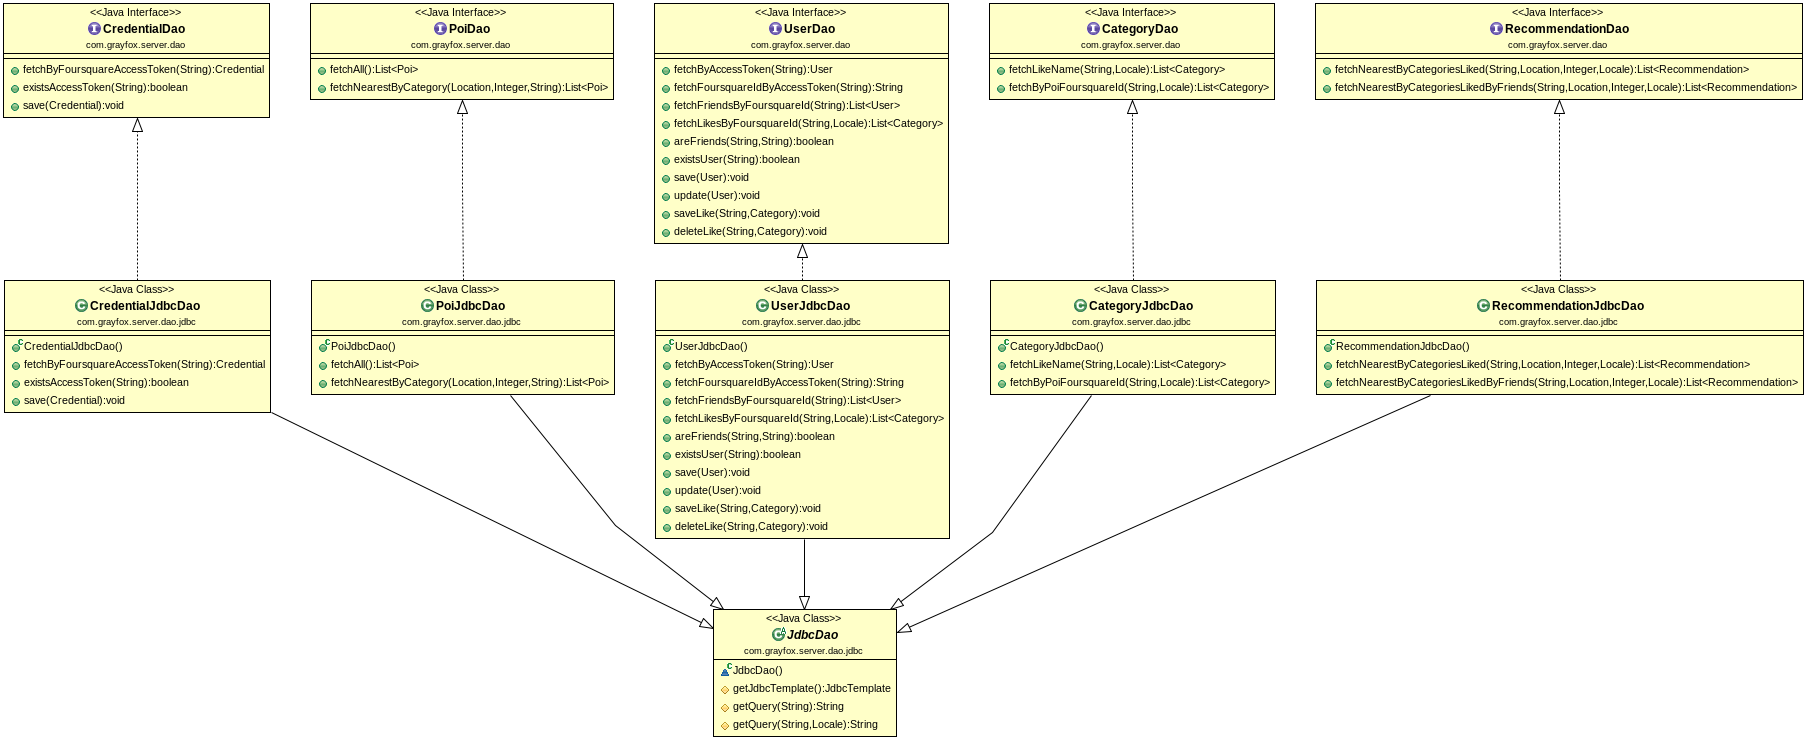
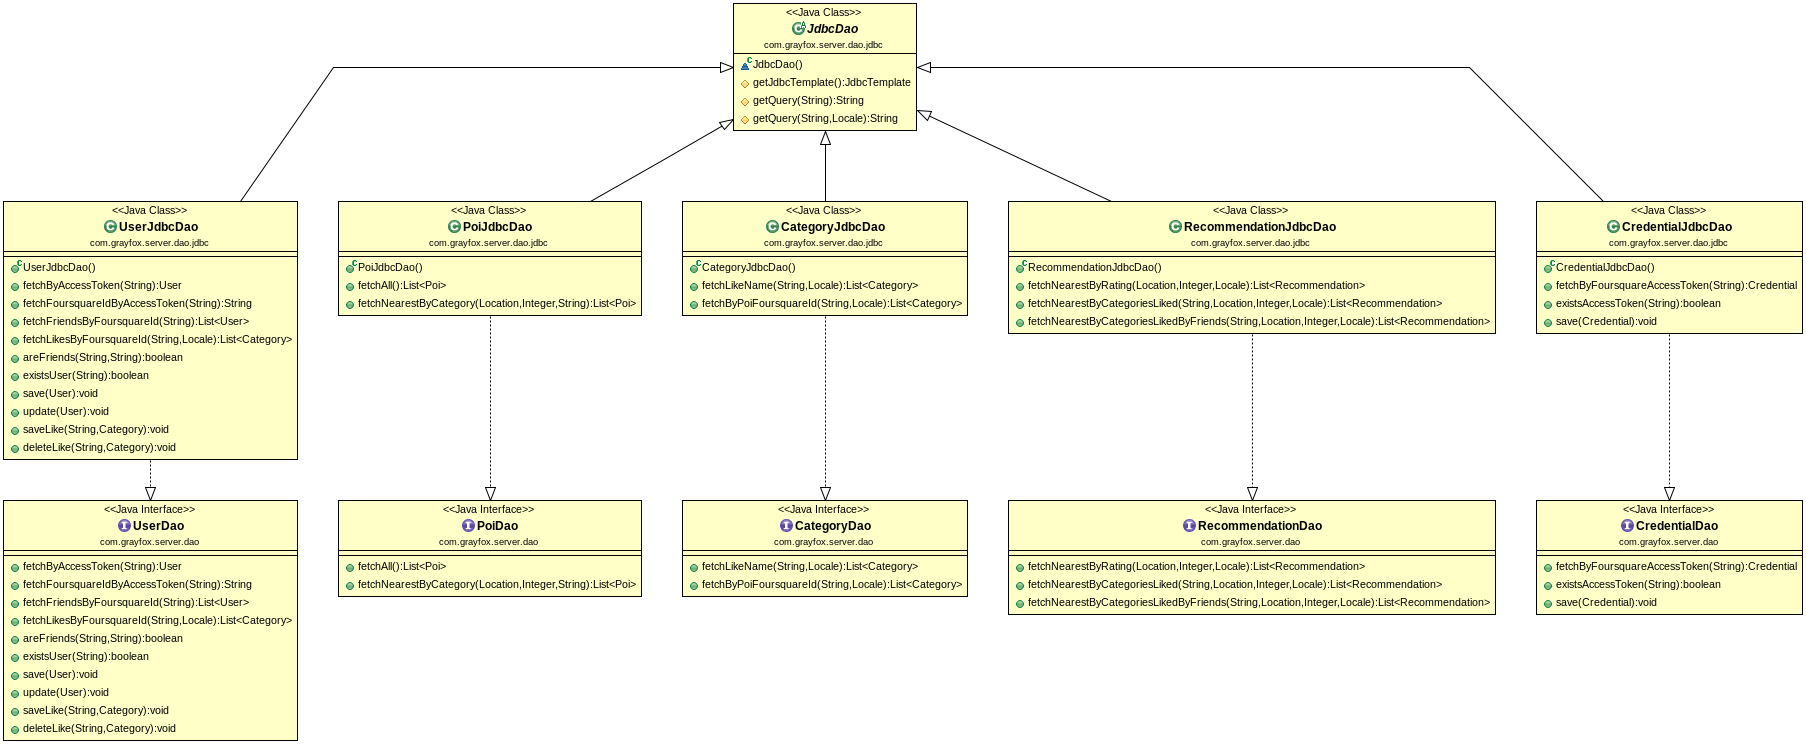
Recommendations are now provided by POI services. Added Globlal recommendation type, recommadations by high ratings. Recommendations are now sorted by distance.

diff --git a/src/main/java/com/grayfox/server/service/PoiService.java b/src/main/java/com/grayfox/server/service/PoiService.java
@@ -1,17 +1,27 @@
 package com.grayfox.server.service;
 
+import java.util.ArrayList;
 import java.util.HashSet;
+import java.util.Iterator;
 import java.util.List;
 import java.util.Locale;
+import java.util.Set;
 
 import javax.inject.Inject;
 
 import com.grayfox.server.dao.CategoryDao;
+import com.grayfox.server.dao.CredentialDao;
 import com.grayfox.server.dao.PoiDao;
+import com.grayfox.server.dao.RecommendationDao;
 import com.grayfox.server.datasource.PoiDataSource;
 import com.grayfox.server.domain.Category;
 import com.grayfox.server.domain.Location;
 import com.grayfox.server.domain.Poi;
+import com.grayfox.server.domain.Recommendation;
+import com.grayfox.server.util.Constants;
+
+import org.slf4j.Logger;
+import org.slf4j.LoggerFactory;
 
 import org.springframework.stereotype.Service;
 import org.springframework.transaction.annotation.Transactional;
@@ -20,9 +30,12 @@ import org.springframework.transaction.annotation.Transactional;
 public class PoiService {
 
     private static final int MAX_POIS_PER_ROUTE = 6;
+    private static final Logger LOGGER = LoggerFactory.getLogger(PoiService.class);
 
+    @Inject private CredentialDao credentialDao;
     @Inject private PoiDao poiDao;
     @Inject private CategoryDao categoryDao;
+    @Inject private RecommendationDao recommendationDao;
     @Inject private PoiDataSource poiDataSource;
 
     @Transactional(readOnly = true)
@@ -39,12 +52,56 @@ public class PoiService {
         return pois;
     }
 
-    public List<Poi> nextPois(Poi seed, Locale locale) {
+    public List<Poi> getNextPois(Poi seed, Locale locale) {
         return poiDataSource.nextPois(seed, MAX_POIS_PER_ROUTE, locale);
     }
 
     @Transactional(readOnly = true)
     public List<Category> getCategoriesLikeName(String partialName, Locale locale) {
         return categoryDao.fetchLikeName(partialName, locale);
+    }
+
+    @Transactional(readOnly = true)
+    public List<Recommendation> recommend(String accessToken, Location location, int radius, Locale locale) {
+        Set<String> categories = new HashSet<>();
+        List<Recommendation> recommendations = new ArrayList<>();
+        if (accessToken != null) {
+            LOGGER.debug("Adding personalized recommendations...");
+            if (!credentialDao.existsAccessToken(accessToken)) {
+                LOGGER.warn("Not existing user attempting to retrive information");
+                throw new ServiceException.Builder("user.invalid.error").build();
+            }
+            List<Recommendation> recommendationsByCategoriesLiked = recommendationDao.fetchNearestByCategoriesLiked(accessToken, location, radius, locale);
+            List<Recommendation> recommendationsByCategoriesLikedByFriends = recommendationDao.fetchNearestByCategoriesLikedByFriends(accessToken, location, radius, locale);
+            recommendationsByCategoriesLiked.forEach(recommendation -> recommendation.getPoi().setCategories(new HashSet<>(categoryDao.fetchByPoiFoursquareId(recommendation.getPoi().getFoursquareId(), locale))));
+            recommendationsByCategoriesLikedByFriends.forEach(recommendation -> recommendation.getPoi().setCategories(new HashSet<>(categoryDao.fetchByPoiFoursquareId(recommendation.getPoi().getFoursquareId(), locale))));
+            recommendations.addAll(recommendationsByCategoriesLiked);
+            recommendations.addAll(recommendationsByCategoriesLikedByFriends);
+        } else LOGGER.debug("Only global recommendations...");
+        List<Recommendation> recommendationsByRating = recommendationDao.fetchNearestByRating(location, radius, locale);
+        recommendationsByRating.forEach(recommendation -> recommendation.getPoi().setCategories(new HashSet<>(categoryDao.fetchByPoiFoursquareId(recommendation.getPoi().getFoursquareId(), locale))));
+        recommendations.addAll(recommendationsByRating);
+        for (Iterator<Recommendation> iterator = recommendations.iterator(); iterator.hasNext();) {
+            Recommendation recommendation = iterator.next();
+            for (Category category : recommendation.getPoi().getCategories()) {
+                if (!categories.add(category.getFoursquareId())) {
+                    iterator.remove();
+                    break;
+                }
+            }
+        }
+        recommendations.sort((r1, r2) -> {
+            double distance1 = distanceBetween(location, r1.getPoi().getLocation());
+            double distance2 = distanceBetween(location, r2.getPoi().getLocation());
+            return distance1 > distance2 ? 1 : distance1 < distance2 ? -1 : 0;
+        });
+        return recommendations;
+    }
+
+    private double distanceBetween(Location location1, Location location2) {
+        double fi1 = Math.toRadians(location1.getLatitude());
+        double fi2 = Math.toRadians(location2.getLatitude());
+        double deltaLambda = Math.toRadians(location2.getLongitude()-location1.getLongitude());
+        return Math.acos(Math.sin(fi1)*Math.sin(fi2) + Math.cos(fi1)*Math.cos(fi2)*Math.cos(deltaLambda)) * Constants.Ints.EARTH_RADIUS; 
     }
 }

diff --git a/src/main/java/com/grayfox/server/ws/rest/PoiWebService.java b/src/main/java/com/grayfox/server/ws/rest/PoiWebService.java
@@ -17,6 +17,7 @@ import javax.ws.rs.core.MediaType;
 import com.grayfox.server.domain.Category;
 import com.grayfox.server.domain.Location;
 import com.grayfox.server.domain.Poi;
+import com.grayfox.server.domain.Recommendation;
 import com.grayfox.server.service.PoiService;
 import com.grayfox.server.util.Constants;
 import com.grayfox.server.ws.rest.response.Response;
@@ -39,7 +40,7 @@ public class PoiWebService extends BaseRestComponent {
     @GET
     @Path("all")
     @Produces(MediaType.APPLICATION_JSON)
-    public Response<List<Poi>> getPois() {
+    public Response<List<Poi>> pois() {
         return new Response<>(poiService.getPois(getClientLocale()));
     }
 
@@ -60,13 +61,25 @@ public class PoiWebService extends BaseRestComponent {
     @Produces(MediaType.APPLICATION_JSON)
     public Response<List<Poi>> nextPois(@NotNull(message = "seed.required.error") Poi seed) {
         LOGGER.debug("nextPois({})", seed);
-        return new Response<>(poiService.nextPois(seed, getClientLocale()));
+        return new Response<>(poiService.getNextPois(seed, getClientLocale()));
+    }
+
+    @GET
+    @Path("recommend")
+    @Produces(MediaType.APPLICATION_JSON)
+    public Response<List<Recommendation>> recommend(
+            @QueryParam("access-token") String accessToken,
+            @NotBlank(message = "location.required.error") @Pattern(message = "location.format.error", regexp = Constants.Regexs.LOCATION) @QueryParam("location") String locationStr,
+            @NotBlank(message = "radius.required.error") @Pattern(message = "radius.format.error", regexp = Constants.Regexs.POSITIVE_INT) @QueryParam("radius") String radiusStr) {
+        if (accessToken != null && accessToken.trim().isEmpty()) accessToken = null;
+        LOGGER.debug("recommend({}, {}, {})", accessToken, locationStr, radiusStr);
+        return new Response<>(poiService.recommend(accessToken, Location.parse(locationStr), Integer.parseInt(radiusStr), getClientLocale()));
     }
 
     @GET
     @Path("categories/like/{partialName}")
     @Produces(MediaType.APPLICATION_JSON)
-    public Response<List<Category>> getCategoriesLikeName(@NotBlank(message = "category_name.required.error") @PathParam("partialName") String partialName) {
+    public Response<List<Category>> categoriesLikeName(@NotBlank(message = "category_name.required.error") @PathParam("partialName") String partialName) {
         return new Response<>(poiService.getCategoriesLikeName(partialName, getClientLocale()));
     }
 }

diff --git a/src/main/java/com/grayfox/server/ws/rest/UserWebService.java b/src/main/java/com/grayfox/server/ws/rest/UserWebService.java
@@ -50,7 +50,7 @@ public class UserWebService extends BaseRestComponent {
     @GET
     @Path("self")
     @Produces(MediaType.APPLICATION_JSON)
-    public Response<User> getSelf(@NotBlank(message = "access_token.required.error") @QueryParam("access-token") String accessToken) {
+    public Response<User> self(@NotBlank(message = "access_token.required.error") @QueryParam("access-token") String accessToken) {
         LOGGER.debug("getSelf({})", accessToken);
         return new Response<>(userService.getSelf(accessToken));
     }
@@ -58,7 +58,7 @@ public class UserWebService extends BaseRestComponent {
     @GET
     @Path("self/friends")
     @Produces(MediaType.APPLICATION_JSON)
-    public Response<List<User>> getSelfFriends(@NotBlank(message = "access_token.required.error") @QueryParam("access-token") String accessToken) {
+    public Response<List<User>> selfFriends(@NotBlank(message = "access_token.required.error") @QueryParam("access-token") String accessToken) {
         LOGGER.debug("getSelfFriends({})", accessToken);
         return new Response<>(userService.getSelfFriends(accessToken));
     }
@@ -66,7 +66,7 @@ public class UserWebService extends BaseRestComponent {
     @GET
     @Path("self/likes")
     @Produces(MediaType.APPLICATION_JSON)
-    public Response<List<Category>> getSelfLikes(@NotBlank(message = "access_token.required.error") @QueryParam("access-token") String accessToken) {
+    public Response<List<Category>> selfLikes(@NotBlank(message = "access_token.required.error") @QueryParam("access-token") String accessToken) {
         LOGGER.debug("getSelfLikes({})", accessToken);
         return new Response<>(userService.getSelfLikes(accessToken, getClientLocale()));
     }
@@ -74,7 +74,7 @@ public class UserWebService extends BaseRestComponent {
     @GET
     @Path("{userFoursquareId}/likes")
     @Produces(MediaType.APPLICATION_JSON)
-    public Response<List<Category>> getUserLikes(
+    public Response<List<Category>> userLikes(
             @QueryParam("access-token") @NotBlank(message = "access_token.required.error") String accessToken,
             @PathParam("userFoursquareId") @NotBlank(message = "user_foursquare_id.required.error") String foursquareId) {
         LOGGER.debug("getUserLikes({}, {})", accessToken, foursquareId);

diff --git a/src/main/java/com/grayfox/server/dao/jdbc/RecommendationJdbcDao.java b/src/main/java/com/grayfox/server/dao/jdbc/RecommendationJdbcDao.java
@@ -20,6 +20,26 @@ import org.springframework.stereotype.Repository;
 public class RecommendationJdbcDao extends JdbcDao implements RecommendationDao {
 
     @Override
+    public List<Recommendation> fetchNearestByRating(Location location, Integer radius, Locale locale) {
+        List<Recommendation> recommendations = getJdbcTemplate().query(getQuery("nearestRecommendationsByRating"), 
+                (ResultSet rs, int i) -> {
+                        Recommendation recommendation = new Recommendation();
+                        Poi poi = new Poi();
+                        poi.setName(rs.getString(1));
+                        poi.setLocation(new Location());
+                        poi.getLocation().setLatitude(rs.getDouble(2));
+                        poi.getLocation().setLongitude(rs.getDouble(3));
+                        poi.setFoursquareId(rs.getString(4));
+                        poi.setFoursquareRating(rs.getDouble(5));
+                        recommendation.setType(Recommendation.Type.GLOBAL);
+                        recommendation.setReason(Messages.get("recommendation.global.reason", locale));
+                        recommendation.setPoi(poi);
+                        return recommendation;
+                }, location.getLatitude(), location.getLongitude(), radius);
+        return recommendations;
+    }
+
+    @Override
     public List<Recommendation> fetchNearestByCategoriesLiked(String accessToken, Location location, Integer radius, Locale locale) {
         Set<String> categoryNames = new HashSet<>();
         List<Recommendation> recommendations = getJdbcTemplate().query(getQuery("nearestRecommendationsByCategoriesLiked", locale), 

diff --git a/src/main/java/com/grayfox/server/dao/RecommendationDao.java b/src/main/java/com/grayfox/server/dao/RecommendationDao.java
@@ -8,6 +8,7 @@ import com.grayfox.server.domain.Recommendation;
 
 public interface RecommendationDao {
 
+    List<Recommendation> fetchNearestByRating(Location location, Integer radius, Locale locale);
     List<Recommendation> fetchNearestByCategoriesLiked(String accessToken, Location location, Integer radius, Locale locale);
     List<Recommendation> fetchNearestByCategoriesLikedByFriends(String accessToken, Location location, Integer radius, Locale locale);
 }

diff --git a/src/main/java/com/grayfox/server/util/Constants.java b/src/main/java/com/grayfox/server/util/Constants.java
@@ -24,4 +24,13 @@ public final class Constants {
             throw new IllegalAccessError("This class cannot be instantiated nor extended");
         }
     }
+
+    public static final class Ints {
+
+        public static final int EARTH_RADIUS = 6371000;
+
+        private Ints() {
+            throw new IllegalAccessError("This class cannot be instantiated nor extended");
+        }
+    }
 }

diff --git a/src/main/java/com/grayfox/server/domain/Recommendation.java b/src/main/java/com/grayfox/server/domain/Recommendation.java
@@ -4,7 +4,7 @@ import java.io.Serializable;
 
 public class Recommendation implements Serializable {
 
-    public static enum Type { SOCIAL, SELF }
+    public static enum Type { GLOBAL, SELF, SOCIAL }
 
     private static final long serialVersionUID = -5900961085377923024L;
 
